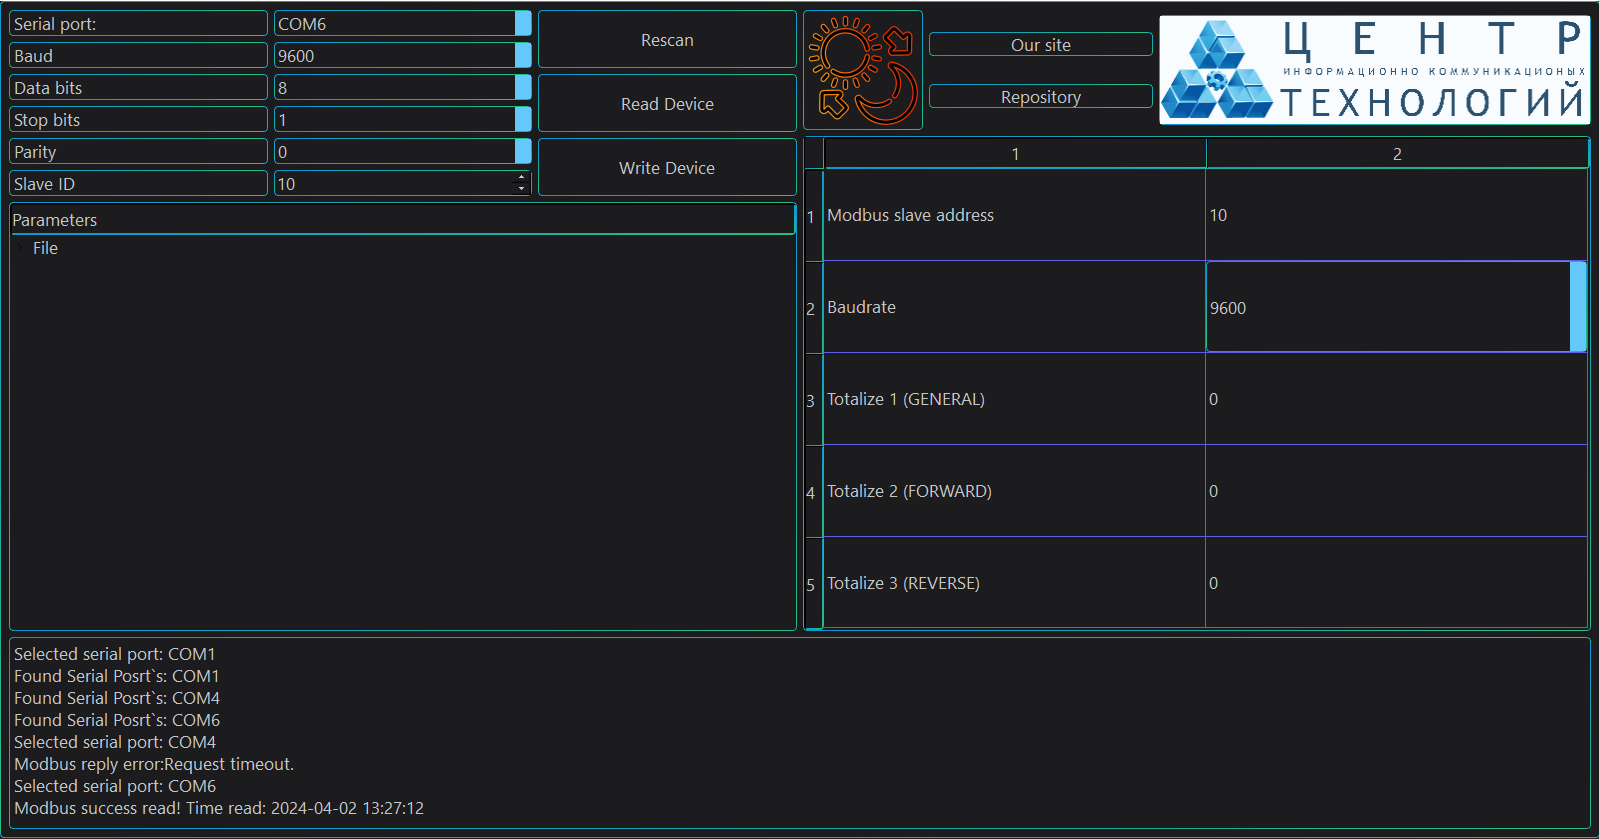
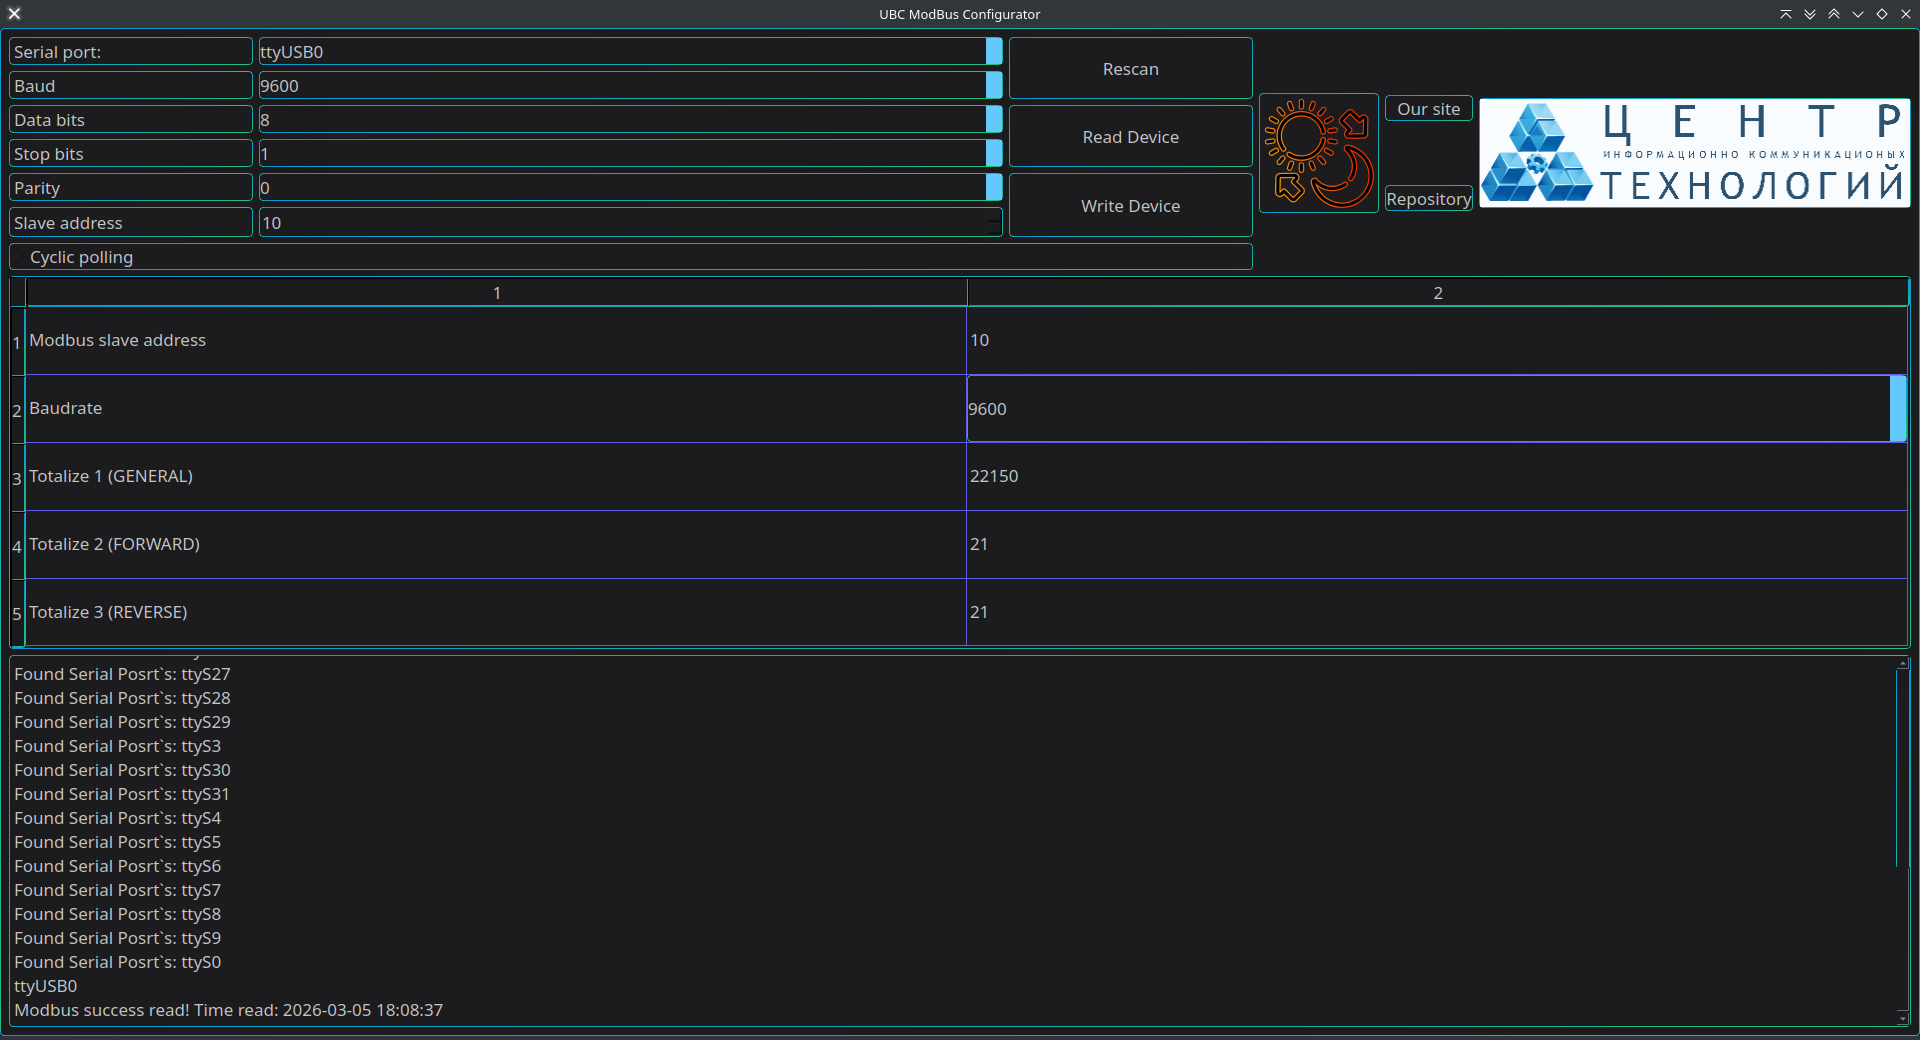
Changed describtion.

Changed region(s): [[0.0, 0.0, 1.0, 1.0], [0.7355, 0.4648, 0.7661, 0.4958]]

diff --git a/README.md b/README.md
@@ -44,10 +44,23 @@
 This is the main project, if you need a project with a configurator and a ModBus implementation in QT, then you need to go here: [UICD.Configurator](https://github.com/VarionDrakon/UICD.Configurator)
 
 Here's what:
-* The ability to exchange `Holding Registers` via the ModBus protocol with the configurator.
-* Ready-made simple configurator for `UICD` (Recommended for use).
-* The source code and circuit board for `EasyEDA-Pro` (However, the source code is only for Arduino, the configurator is [here](https://github.com/VarionDrakon/UICD.Configurator))
-* Also, if you have poor visibility or like a light/dark theme, you can change it.
+
+Device:
+* Data exchange via the ModBus protocol.
+* Source code and board for EasyEDA-Pro.
+* High sensor counting speed achieved through the use of hardware interrupts and a clean input signal.
+* Dynamic baud rate and Modbus address adjustment.
+* Task queue and device busy mode (idle or operating).
+* Data storage on an I2C flash drive.
+* 20x4 display via I2C.
+* 24V input power and noise filtering.
+
+Configurator:
+* Ready-to-use, simple configurator for UICD.
+* Light/dark theme selection.
+* Windows and Linux (QT) support.
+* Portable operation.
+* Cyclic device polling capability.
 
 <br>
 You can also see a preliminary 2D view of the board:
